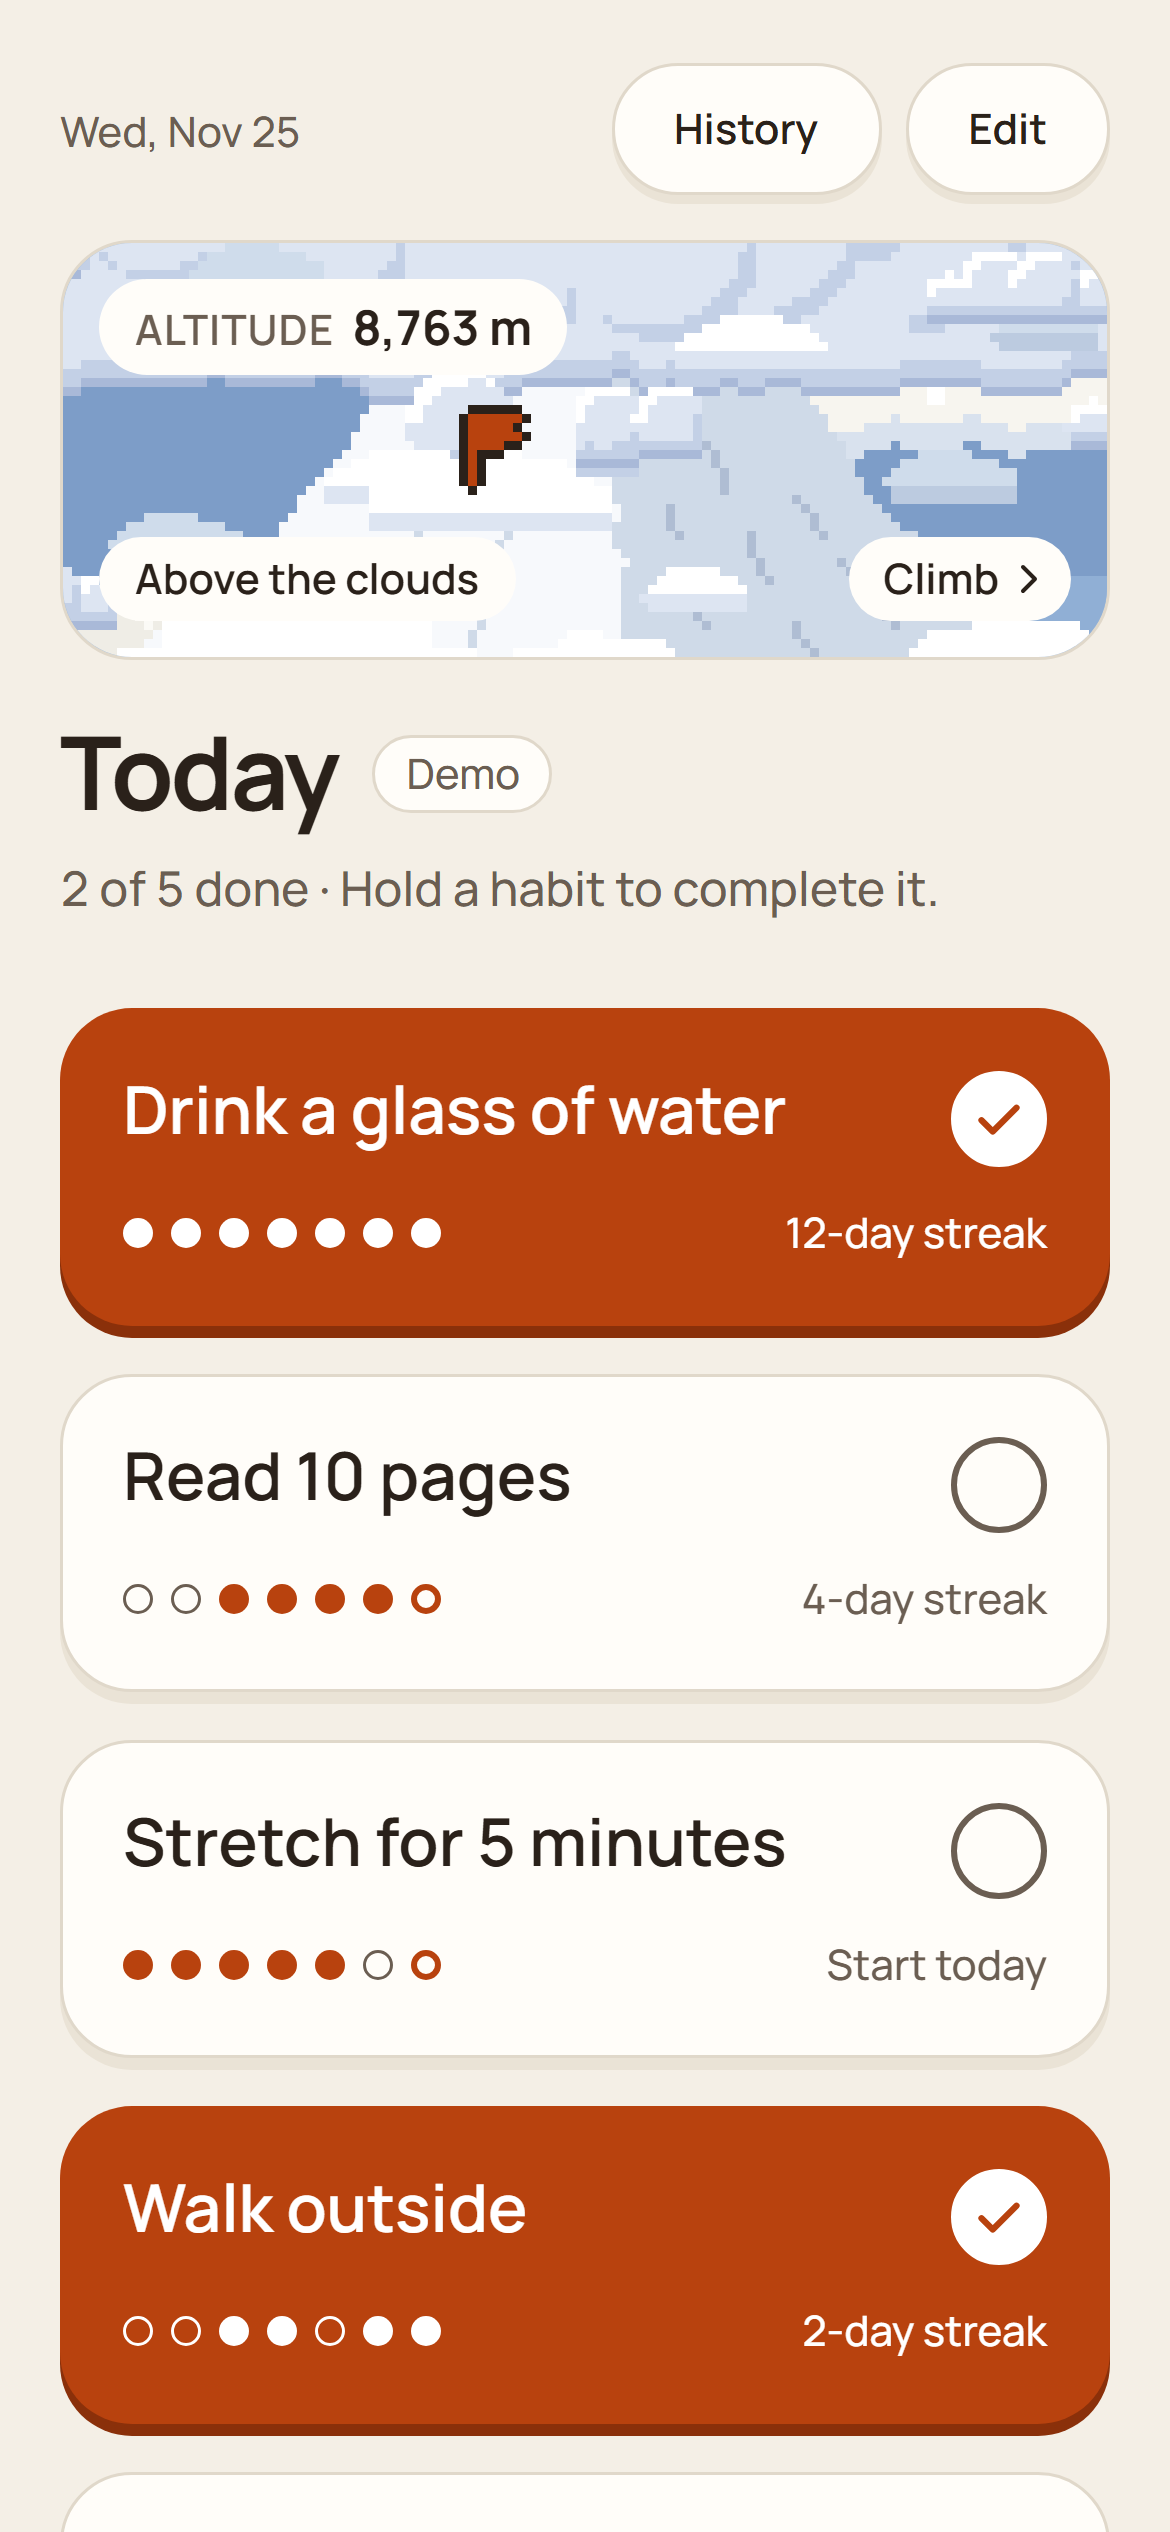
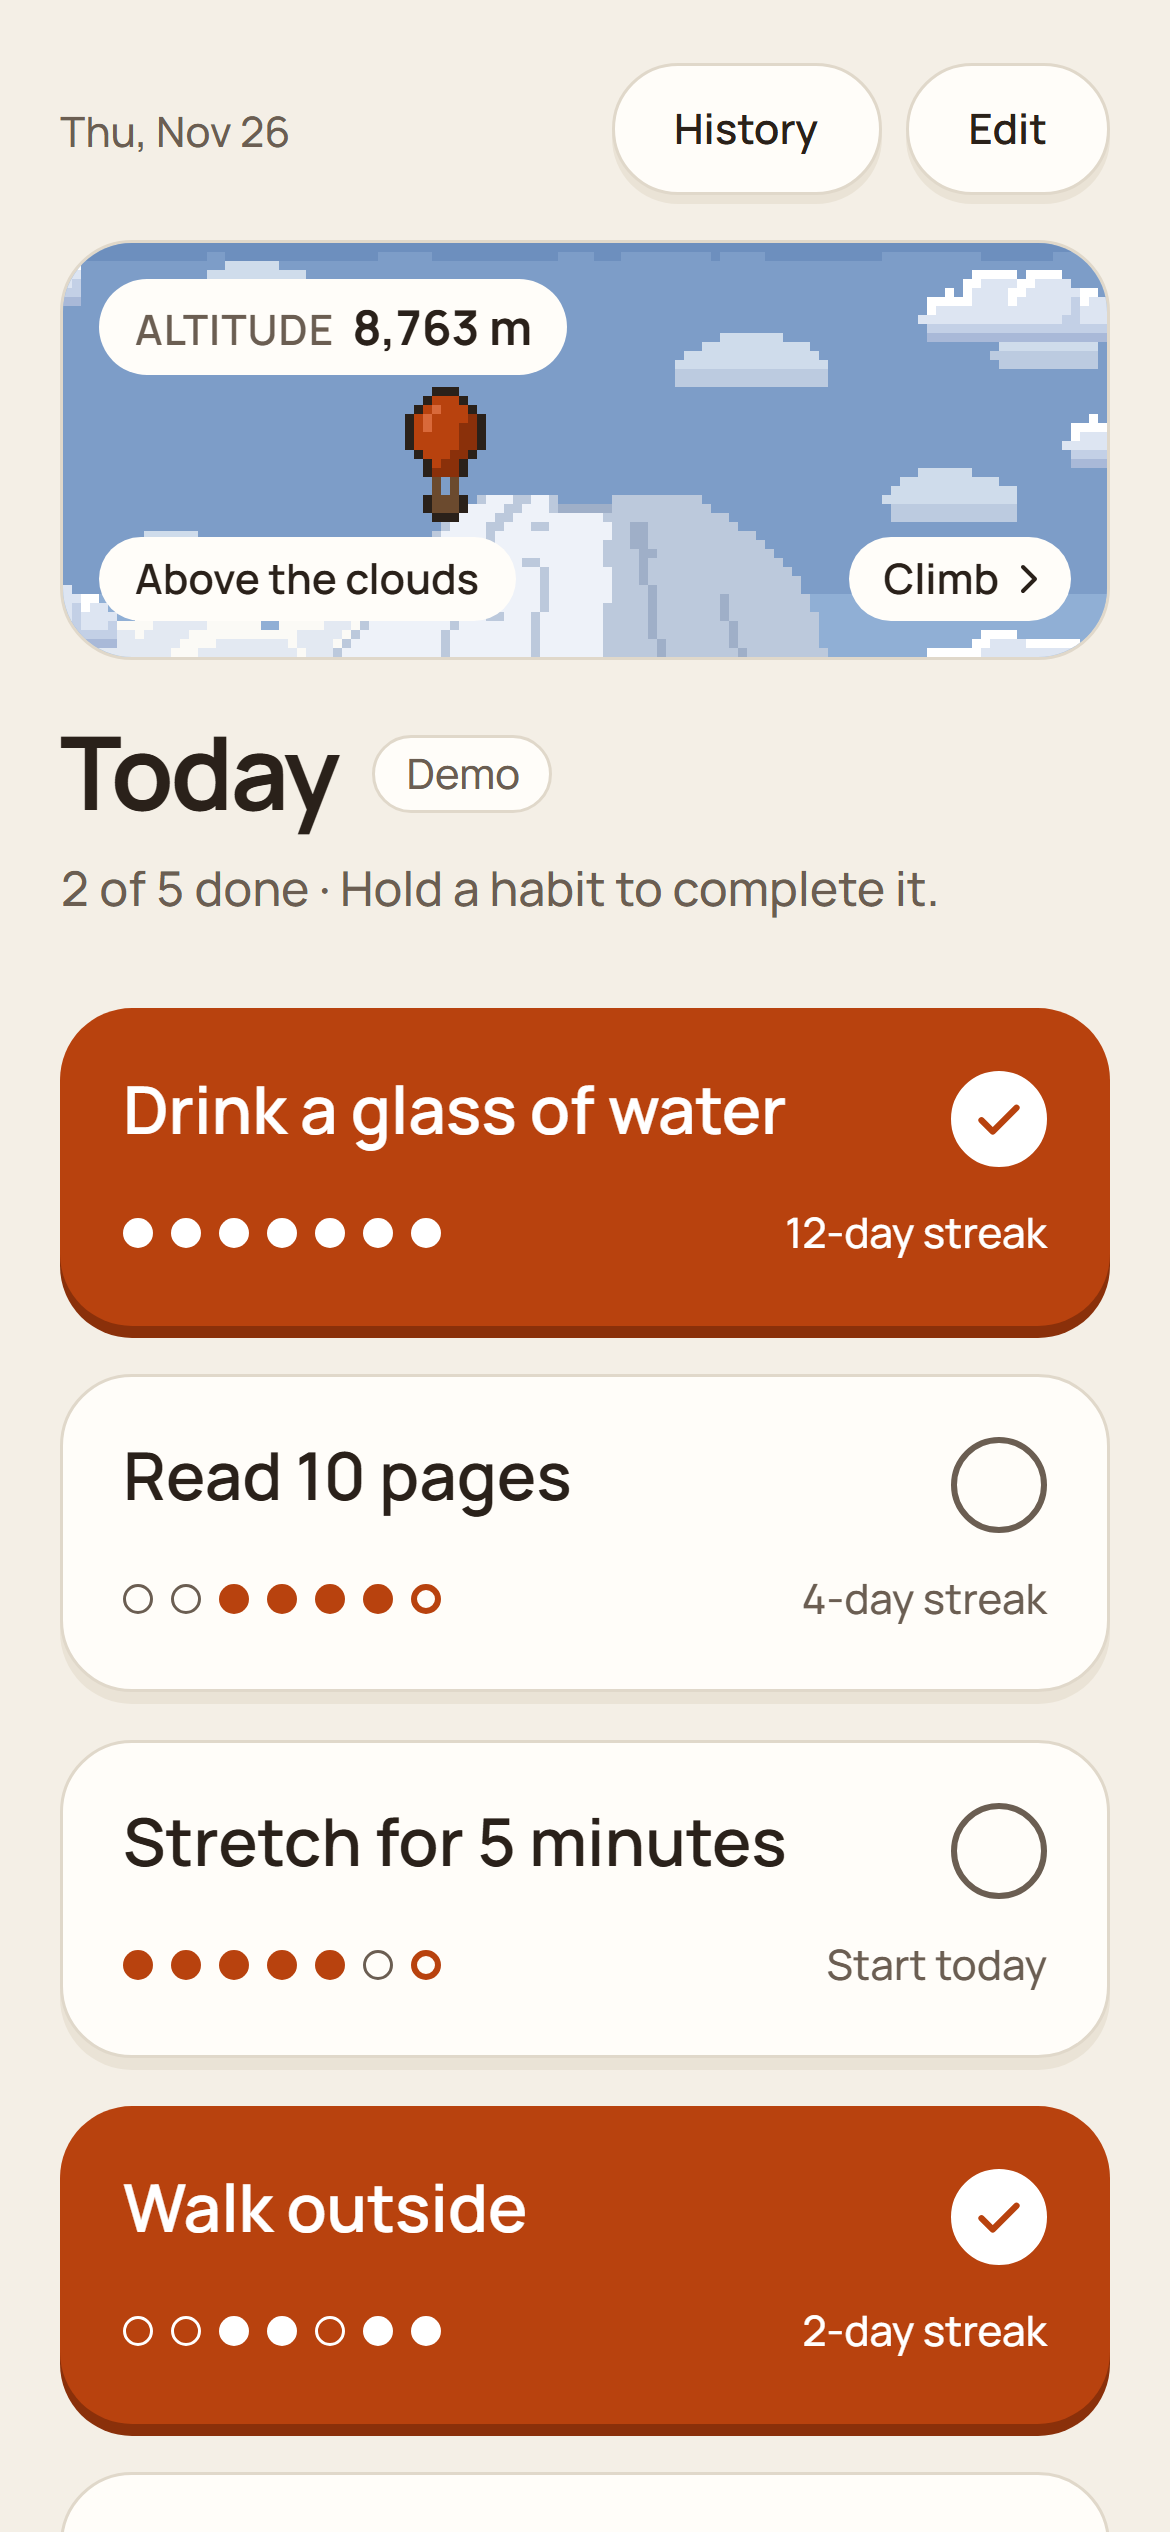
Work: Ascend's balloon, summit and space

diff --git a/content/site.ts b/content/site.ts
@@ -157,16 +157,16 @@ export const ascend = {
   },
   stats: {
     unitTests: {
-      floor: 500,
-      exact: 516,
-      asOf: "2026-11-25",
-      source: "habit-tracker plans/habit-tracker.md, Reviews, Feature 10 final checks (516 unit and database tests)",
+      floor: 600,
+      exact: 608,
+      asOf: "2026-11-26",
+      source: "habit-tracker plans/habit-tracker.md, Reviews, Feature 10g final checks (608 unit and database tests), commit 5d9acb6",
     },
     browserTests: {
       floor: 90,
-      exact: 90,
-      asOf: "2026-11-25",
-      source: "habit-tracker plans/habit-tracker.md, Reviews, Feature 10 final checks (browser suite: 90 passed)",
+      exact: 95,
+      asOf: "2026-11-26",
+      source: "habit-tracker plans/habit-tracker.md, Reviews, Feature 10g final checks (browser suite on the production build: 95 passed), commit 5d9acb6",
     },
     findings: {
       floor: 260,

diff --git a/components/work.tsx b/components/work.tsx
@@ -126,7 +126,7 @@ export function Work() {
             <Phone>
               <ScreenLayer
                 image={ascendScreen}
-                alt="Ascend's Today screen: the pixel-art Climb strip, Altitude 8,763 m · Above the clouds, broad mountain slopes with the top hidden in cloud, above the habit keys."
+                alt="Ascend's Today screen: the pixel-art Climb strip, a hot-air balloon at Altitude 8,763 m · Above the clouds, the mountain's peak in view, above the habit keys."
                 sizes="300px"
               />
             </Phone>

diff --git a/public/media/SOURCES.md b/public/media/SOURCES.md
@@ -12,7 +12,7 @@ an embedded text chunk (`impeccable embed-prompt --read <file>`).
 | `bitewise-swap-{dark,light}.png` | Frames at 25.3 s (dark tour) and 24.8 s (light tour) |
 | `bitewise-scan.png` | Frame at 62.1 s of `bitewise-demo-light-real-scan.mp4` (the Nov 25 re-recording): a real iPhone barcode scan, used in both themes |
 | `bitewise-cost-{dark,light}.png` | Frames at 53.6 s (dark tour) and 53.7 s (light tour) |
-| `ascend-today-{dark,light}.png` | `habit-tracker/docs/screenshots/feature-10/today-*.png` at `e00cd03` (Feature 10b, the climb with no top): Today with The Climb strip, the demo at 8,763 m, the mountain's top hidden in cloud (Playwright, 390 × 844 @3) |
+| `ascend-today-{dark,light}.png` | `habit-tracker/docs/screenshots/feature-10/today-*.png` at `5d9acb6` (Feature 10g): Today with The Climb strip, the demo's hot-air balloon at 8,763 m beside the short, wide Fuji with its peak in view, above the habit keys (Playwright, 390 × 844 @3) |
 | `orbit-map-{dark,light}.png` | `network-crm/docs/screenshots/feature-7/map-*.png`: the 3D map (Playwright, 390 × 844 @3) |
 | `bitewise-swap-sheet-{dark,light}.png` | The case study's swap figure: https://trybitewise.vercel.app via Try the demo, Today unscrolled, the swap sheet opened from Breakfast (Overnight oats) (Playwright, 393 × 852 @2, 2026-11-25; nothing swapped or reset) |
 
